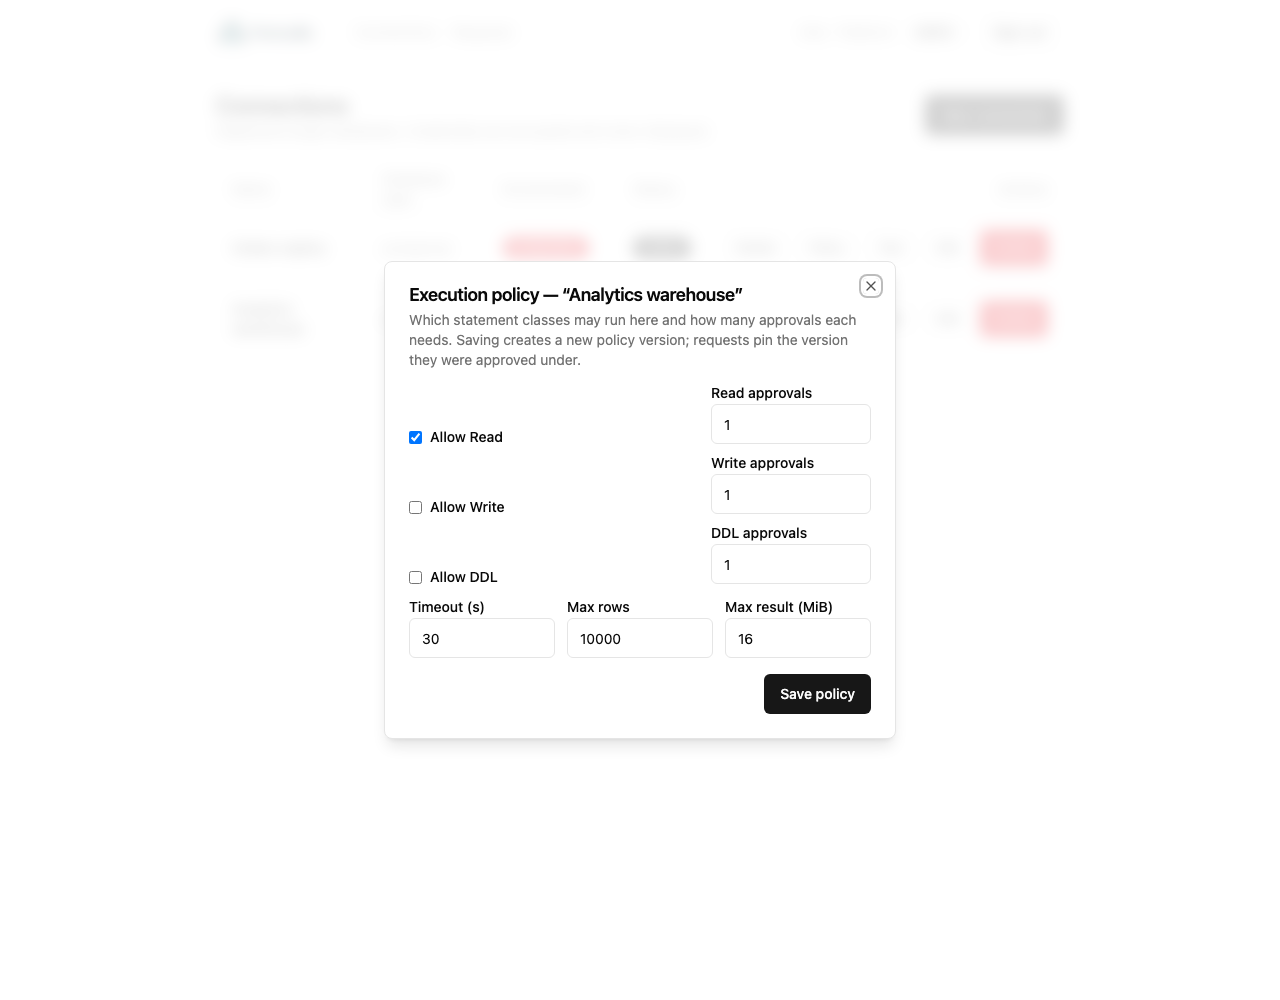
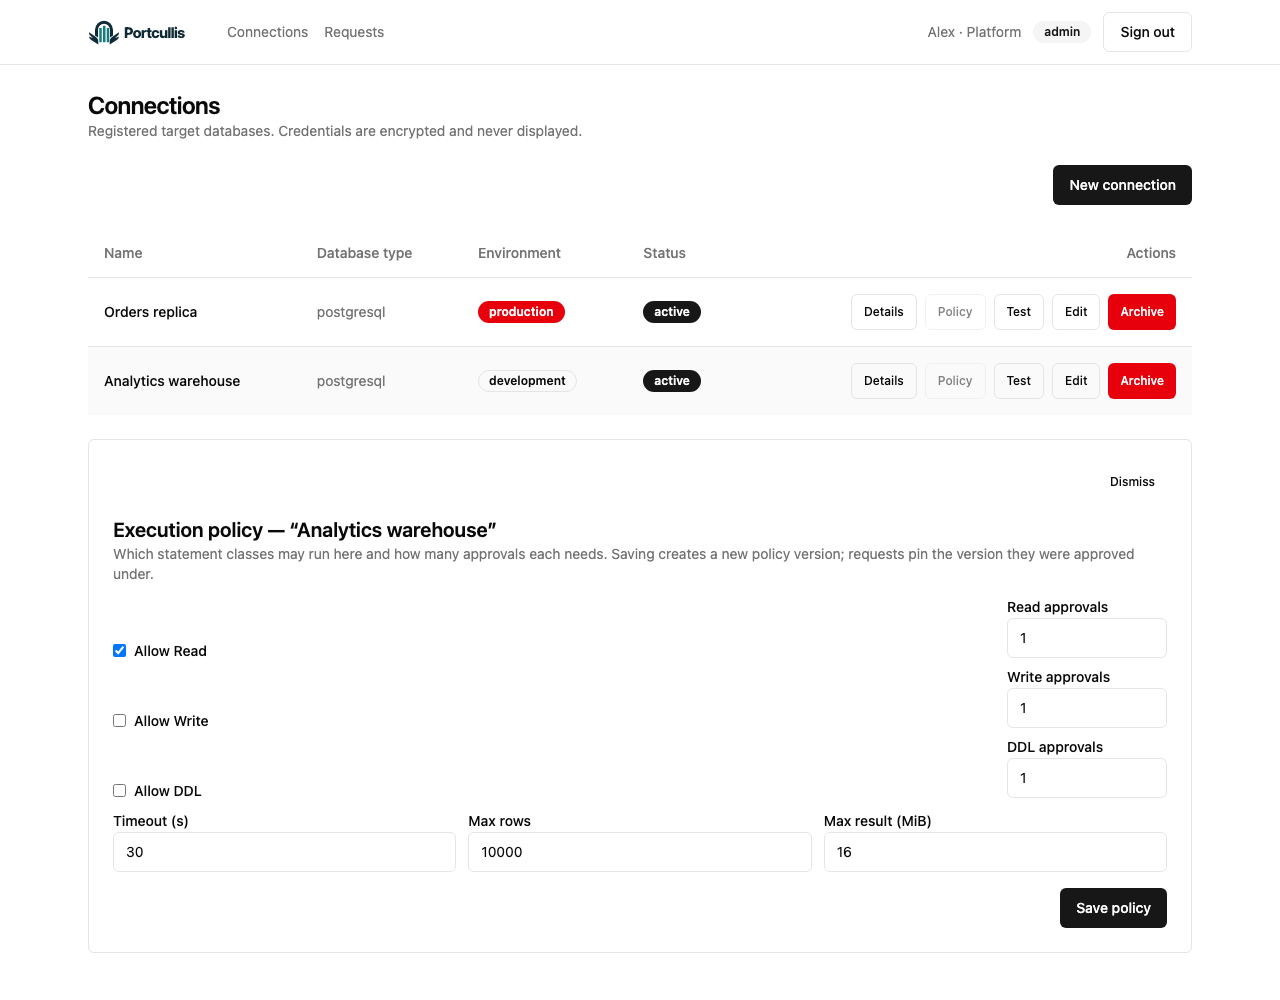
docs: refresh page workflow captures and M1 verification evidence

diff --git a/docs/operations/m1-validation.md b/docs/operations/m1-validation.md
@@ -24,6 +24,12 @@ During README capture, long SQL was found to push request-detail actions beyond 
 
 The README walkthrough capture additionally exercised a distinct requester and reviewer, single-use approved execution, exact-value result paging/sorting/filtering and preparation of all 30 synthetic CSV rows despite a 10-row filter. Screenshots and GIFs document those interactions; they do not certify native file saving or substitute for `make verify`.
 
+## Page-first workflow verification
+
+ADR-0022 is implemented: request composition, details/review and results have reloadable routes and back links; connection creation, descriptor details/edits and policy settings use in-page panels. Only credential-destroying connection archive confirmation remains modal. The request navigation scenario first failed because New request stayed at `/requests`, then passed after routing was implemented. The connection scenario first failed because creation rendered one dialog, then passed after in-page conversion. Browser verification also exposed a rapid edit re-entry race; duplicate edit admission is now disabled until the current panel closes, and the scenario waits for actual save completion.
+
+The final `make verify` after these changes passed build, vet, lint (zero issues), all Go tests including Testcontainers database coverage, frontend typecheck/lint, 104 frontend tests and load-script typecheck. Browser E2E passed 9 of 10, including direct reload/history, long SQL, draft recovery and connection/policy flows. Its sole remaining failure is native CSV saving returning `canceled`; suggested filename and prepared whole-snapshot content pass, and native file-content readback remains enabled. The actual README screenshots and the six-frame workflow/five-frame result GIFs were regenerated and inspected for these page layouts.
+
 ## Reproduction
 
 Use a project-local Docker configuration with `{"auths":{}}` to avoid reading unrelated home configuration. Point `DOCKER_CONFIG` at it and `DOCKER_HOST` at the explicitly permitted Docker socket. Set `CI=true` for the noninteractive pnpm install and `PLAYWRIGHT_BROWSERS_PATH` to a project-local browser installation, then run `make verify`. Playwright's configured download directory is project-local as well. The Docker socket and Go build cache require the path-specific permissions established for this session.

diff --git a/docs/product/prd.en.md b/docs/product/prd.en.md
@@ -594,7 +594,6 @@ audit_events
 
 Routine creation, editing, request review, policy settings and result exploration belong within pages; modal confirmation is reserved for risky/destructive actions (ADR-0022). Requests provide directly reloadable creation, detail and result routes with browser history and visible back links. Preserve typed SQL and decision reasons during background refresh, and require explicit Save draft/Submit actions; route navigation must not automatically persist plaintext or execute SQL.
 
-
 Provide explicit navigation position and stable access to one execution's results.
 kviklet already has pagination, request filters, stored results, and full-cell views; validate UX through tasks rather than claiming pagination as differentiation, ADR-0019.
 

diff --git a/docs/adr/README.md b/docs/adr/README.md
@@ -36,7 +36,6 @@ These must be `Accepted` before Core 1 coding begins.
 | [0019](0019-kviklet-baseline-refresh.md) | kviklet 0.9.2 baseline — workflow comparison, execution and logging safeguards | Accepted |
 | [0020](0020-scenario-load-testing.md) | Scenario load testing — k6 capacity gates and measured deployment sizing | Accepted |
 | [0021](0021-governed-query-execution.md) | Governed PostgreSQL execution, leases, catalog gate, and results | Accepted |
-
 | [0022](0022-page-first-workflows.md) | Page-first workflows, routed request composition/review/results | Accepted |
 
 ## Template
